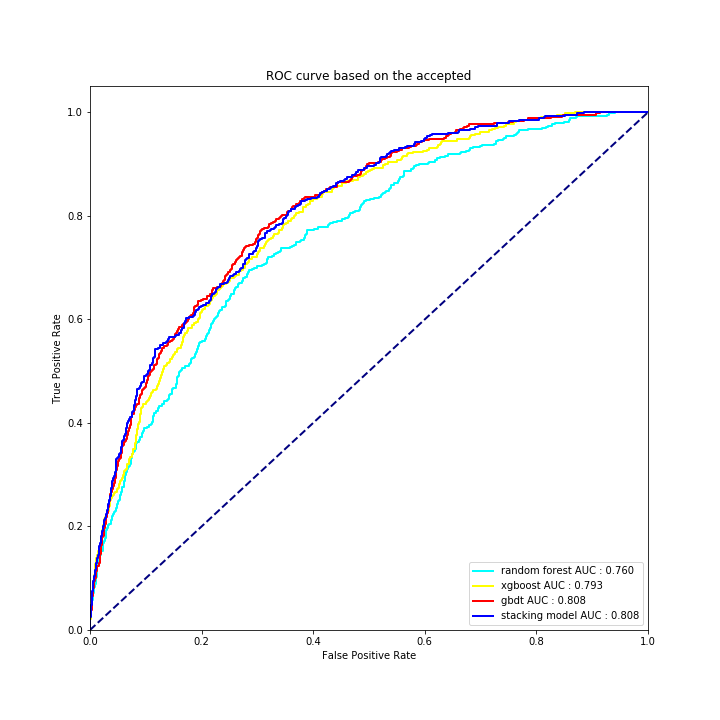
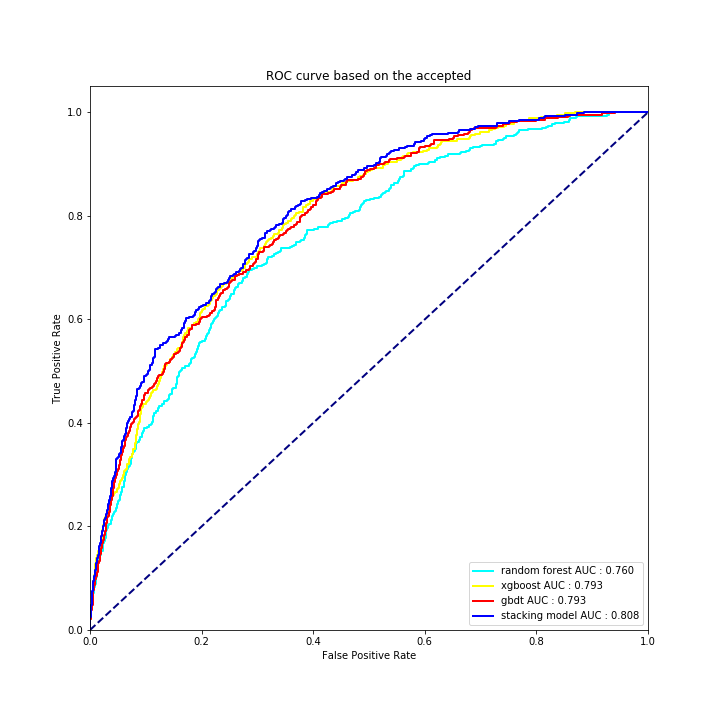
change roc curve

diff --git a/ml_model.py b/ml_model.py
@@ -294,8 +294,9 @@ if __name__ == '__main__':
     rf_probas = rf_model.predict_proba(X_test)[:,1]
     xgb_probas = xgb_model.predict_proba(X_test)[:,1]
     gbdt_probas = gbdt_model.predict_proba(X_test)[:,1]
+    ada_probas = ada_model.predict_proba(X_test)[:,1]
     stack_probas = stack_model.predict_proba(X_test)[:,1]
-    plot_four_roc(y_test,[rf_probas,xgb_probas,gbdt_probas,stack_probas],\
+    plot_four_roc(y_test,[rf_probas,xgb_probas,ada_probas,stack_probas],\
                   model_names = ['random forest','xgboost','gbdt','stacking model'],\
                   name = "ROC curve based on the accepted")
     
